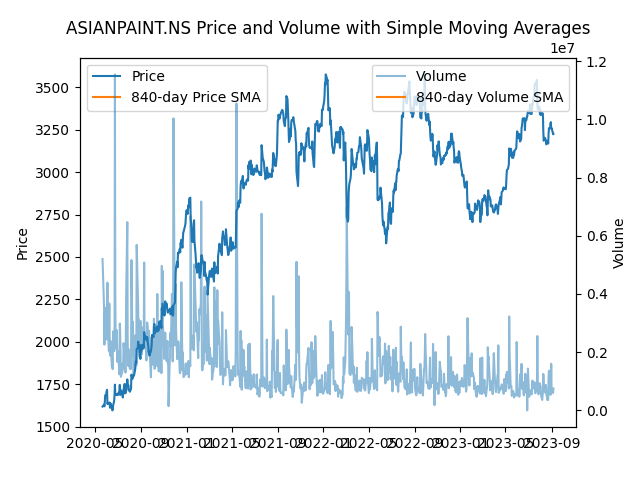
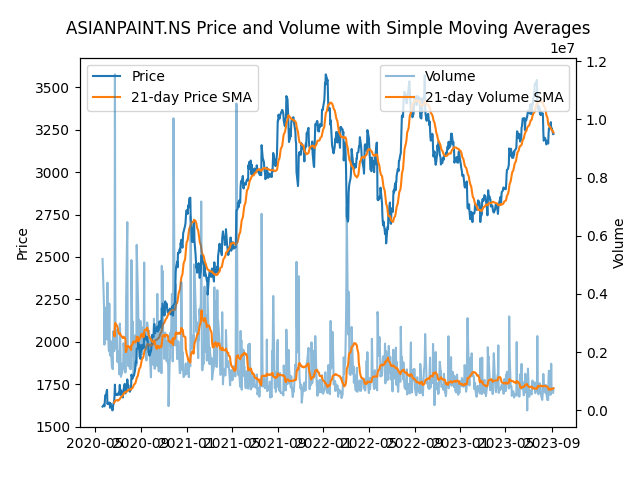
increased input max_tokens

diff --git a/backend/main.py b/backend/main.py
@@ -118,18 +118,17 @@ def compare():
 def get_Data_From_YFinance(symbol, start_date, end_date,no_of_days):
     # Retrieve the historical data for the specified symbol and date range
     data = yf.download(symbol, start=start_date, end=end_date)
-    # Calculate the average volume and average LTP
-    data['avg_volume'] = data['Volume'].rolling(window=no_of_days).mean()
+    # Calculate the  average LTP
     data['avg_LTP'] = (data['Open'] + data['High'] + data['Low'] + data['Close']) / 4
 
     # Select the columns of interest
-    columns_of_interest = ['Open', 'Close',  'Volume', 'avg_volume', 'avg_LTP']
+    columns_of_interest = ['Open', 'Close',  'Volume', 'avg_LTP']
     data = data[columns_of_interest]
 
     # Print the data
     print("Printing yfinance data from NSE\n")
     print(data)
-    monthly_data = data.resample('M').mean()
+    monthly_data = data.resample('M').agg({'Volume': 'mean', 'avg_LTP': 'mean'})
     print(monthly_data)
     imgdata = draw_graph2(symbol,data,no_of_days)
     return data, imgdata
@@ -137,10 +136,10 @@ def get_Data_From_YFinance(symbol, start_date, end_date,no_of_days):
 
 
 #  drawing a graph with price and date with SMA for 500 days on close price
-def draw_graph(symbol,data):
+def draw_graph(symbol,data,no_of_days):
 
     # Compute the moving average with a 500-day window
-    window_size = 500
+    window_size = no_of_days
     data[f"SMA_{window_size}"] = data['Close'].rolling(window=window_size).mean()
     print(data[f"SMA_{window_size}"] )
 
@@ -155,10 +154,10 @@ def draw_graph(symbol,data):
     plt.show()
 
 #  drawing a graph with price and date with SMA for 500 days on volume
-def draw_graph1(symbol,data):
+def draw_graph1(symbol,data,no_of_days):
 
     # Compute the moving average with a 500-day window
-    window_size = 21
+    window_size = no_of_days
     data[f"SMA_{window_size}"] = data['Volume'].rolling(window=window_size).mean()
 
     # Plot the graph
@@ -179,15 +178,15 @@ def draw_graph1(symbol,data):
 
     plt.show()
 
-#  drawing a graph with volume and date with plotting of SMA for 500 days on price and 100 days on volume
+#  drawing a graph with volume and date with plotting of SMA for no_of_days on price and on volume
 def draw_graph2(symbol,data,no_of_days):
 
 
-    # Compute the moving averages with a 500-day window
-    price_window_size = no_of_days
-    volume_window_size = no_of_days
-    data[f"SMA_{price_window_size}"] = data['Close'].rolling(window=price_window_size).mean()
-    data[f"SMA_{volume_window_size}_Vol"] = data['Volume'].rolling(window=volume_window_size).mean()
+    # Compute the moving averages with a no_of_days window
+    price_window_size = int(no_of_days)
+    volume_window_size = int(no_of_days)
+    data[f"SMA_{price_window_size}"] = data['Close'].rolling(window=price_window_size,min_periods=price_window_size).mean()
+    data[f"SMA_{volume_window_size}_Vol"] = data['Volume'].rolling(window=volume_window_size,min_periods=volume_window_size).mean()
 
     # Plot the graph
     fig, ax1 = plt.subplots()
@@ -219,9 +218,9 @@ def draw_graph2(symbol,data,no_of_days):
         base64_image = base64.b64encode(image_file.read()).decode()	
     return base64_image
 
-def draw_graph4(symbol, data):
+def draw_graph4(symbol, data,no_of_days):
     # Compute the moving average with a 500-day window
-    window_size = 500
+    window_size = no_of_days
     data[f"SMA_{window_size}"] = data['Close'].rolling(window=window_size).mean()
 
     # Calculate VWAP
@@ -264,9 +263,9 @@ def draw_graph4(symbol, data):
     plt.suptitle(f"{symbol.upper()} Price, VWAP, LTP, and Number of Trades")
     plt.show()
 
-def draw_graph5(symbol, data):
+def draw_graph5(symbol, data,no_of_days):
     # Compute the moving average with a 500-day window
-    window_size = 500
+    window_size = no_of_days
     data[f"SMA_{window_size}"] = data['Close'].rolling(window=window_size).mean()
 
     # Plot the graph
@@ -293,7 +292,7 @@ def draw_graph5(symbol, data):
     plt.show()
 
 
-def getResponseFromOpenAI26(data):
+def getResponseFromOpenAI26(data,no_of_days):
     # reading from frontend ui and once user click on submit button
     uri = os.getenv("URI")
     header = {os.getenv("API_KEY"): os.getenv("KEY_VALUE")}
@@ -308,7 +307,7 @@ def getResponseFromOpenAI26(data):
         print(message)
 
         # Analyze the data and generate suggestions
-        sma_21 = data['Close'].rolling(window=21).mean()
+        sma_21 = data['Close'].rolling(window=no_of_days).mean()
         current_price = data['Close'][-1]
         current_sma21 = sma_21[-1]
         if current_price > current_sma21:
